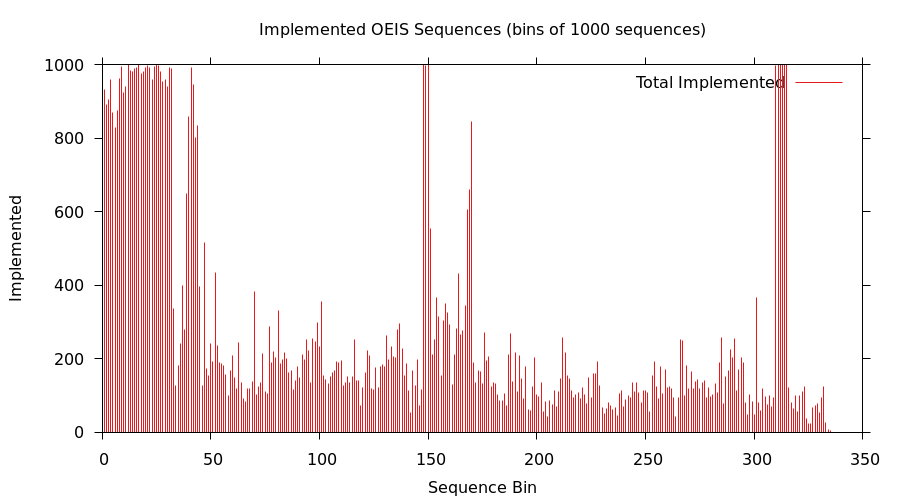
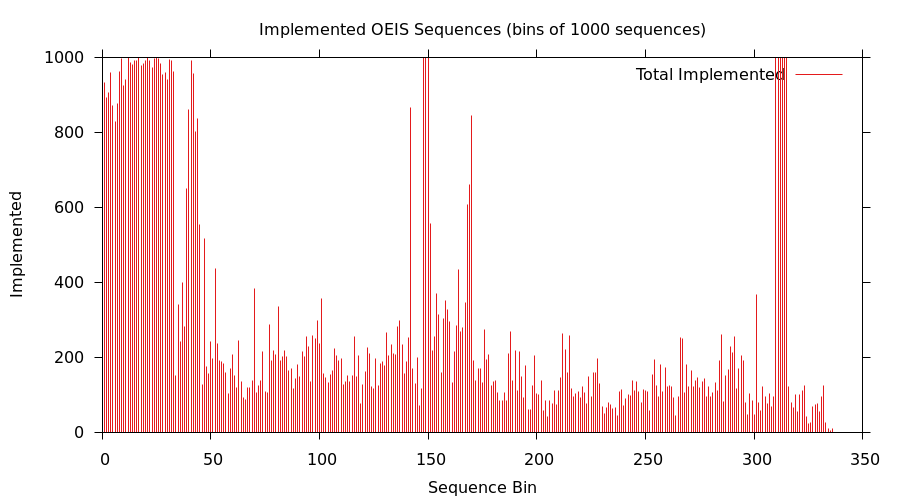
Stats

diff --git a/src/irvine/oeis/a034/A034028.java b/src/irvine/oeis/a034/A034028.java
@@ -1,0 +1,15 @@
+package irvine.oeis.a034;
+
+import irvine.oeis.ComplementSequence;
+
+/**
+ * A034028.
+ * @author Sean A. Irvine
+ */
+public class A034028 extends ComplementSequence {
+
+  /** Construct the sequence. */
+  public A034028() {
+    super(new A034027());
+  }
+}
